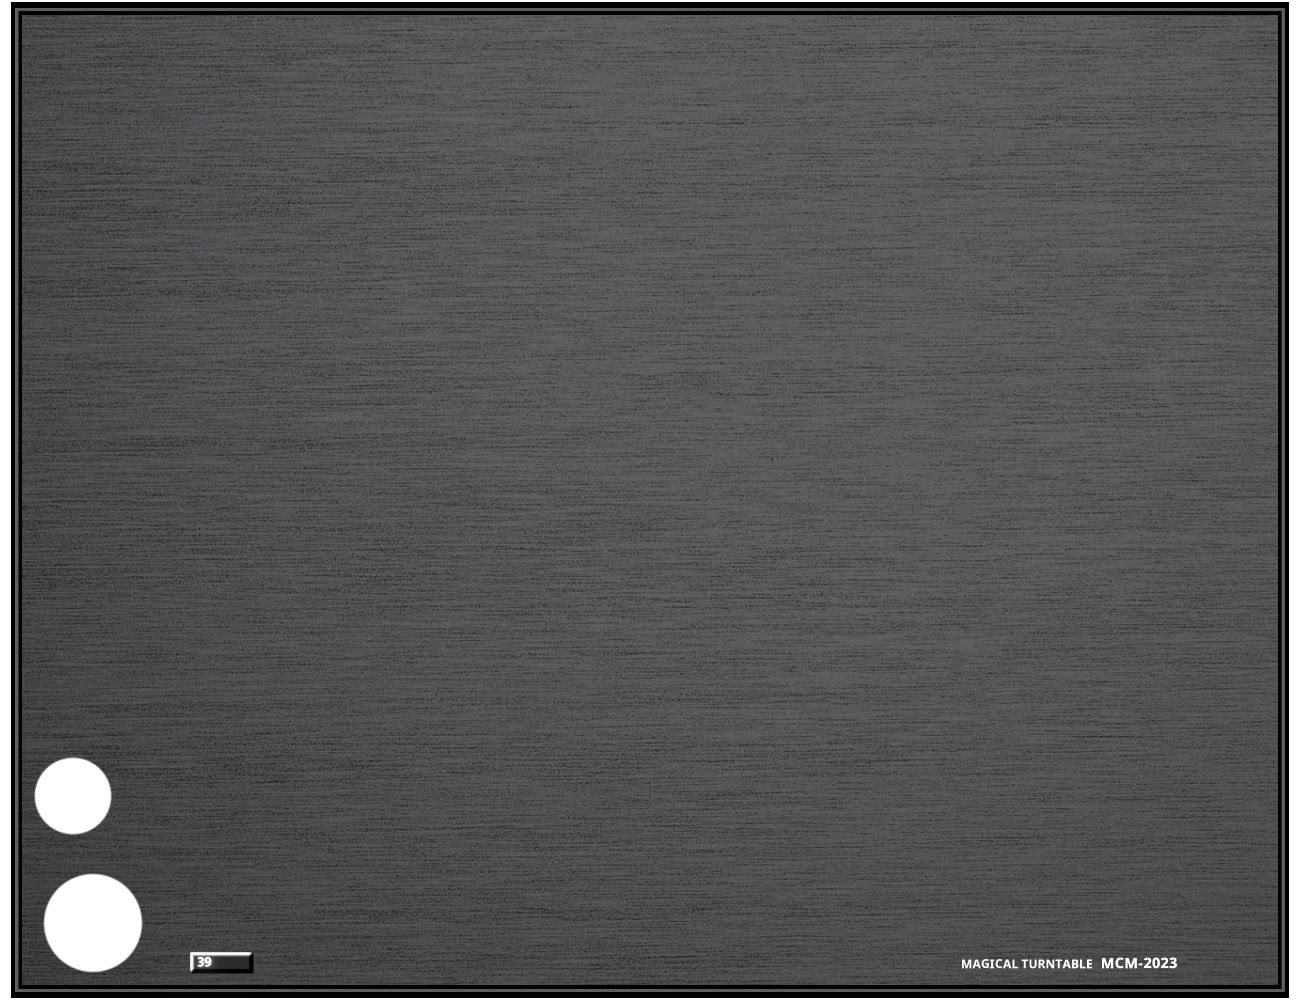
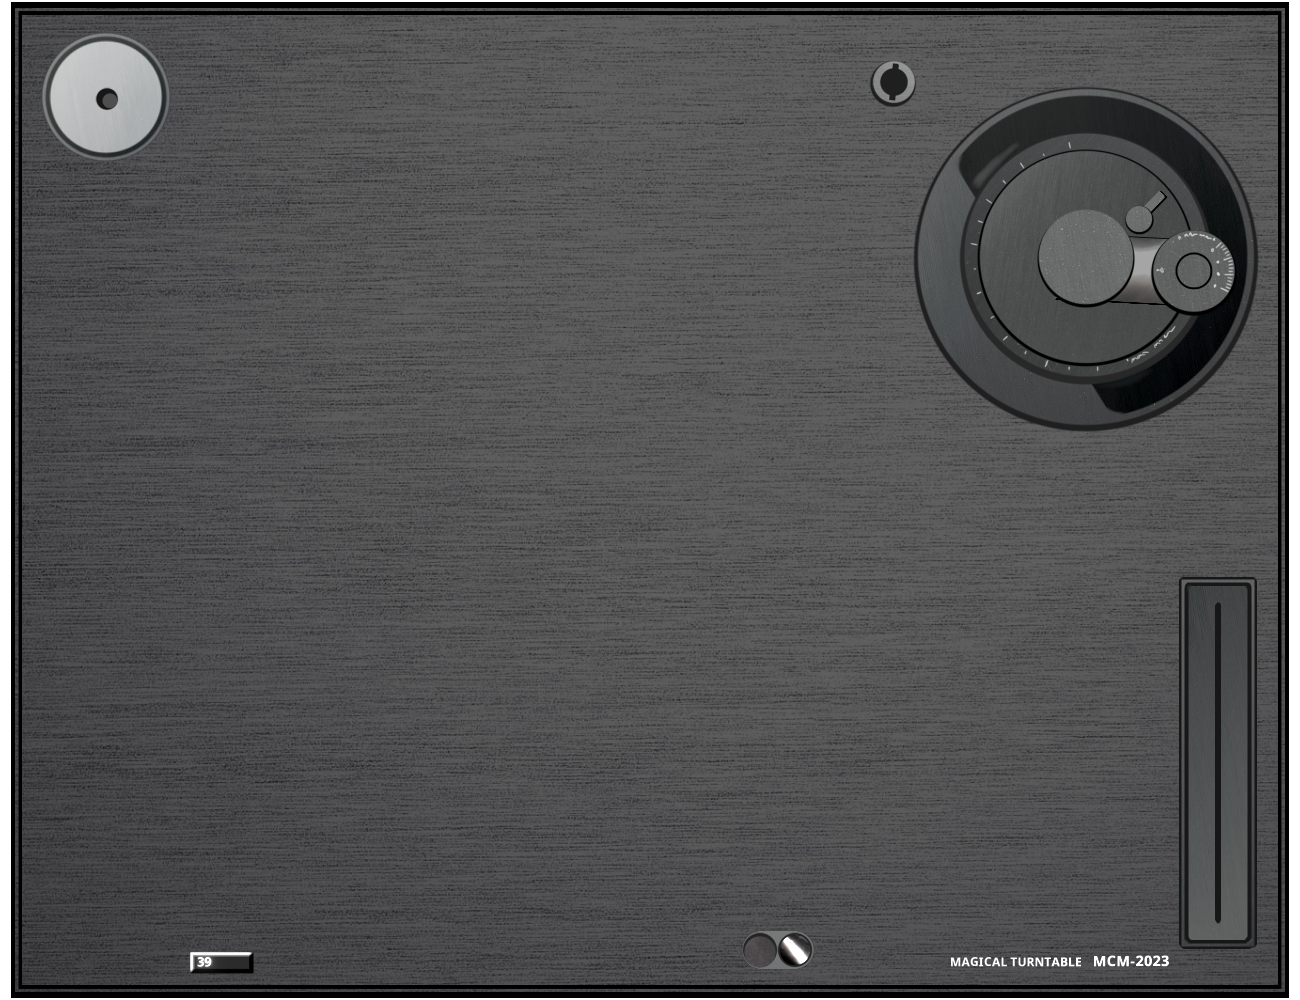
ビートのエフェクトを反転 / REPLAYボタンを追加

diff --git a/src/index.js b/src/index.js
@@ -83,10 +83,16 @@ const needle_radius_default = 400;
 const startstop_button_pos_default = [42, 871];
 
 /**
+ * REPLAYボタンの位置[left, top[px]]
+ * キャンバス倍率1の時の値
+ */
+const replay_button_pos_default = [42, 778];
+
+/**
  * BACKボタンの位置[left, top[px]]
  * キャンバス倍率1の時の値
  */
-const back_button_pos_default = [30, 753];
+const back_button_pos_default = [27, 698];
 
 /**
  * START/STOPボタンのサイズ[width, height[px]]
@@ -95,10 +101,16 @@ const back_button_pos_default = [30, 753];
 const startstop_button_size_default = [105, 105];
 
 /**
+ * REPLAYボタンのサイズ[width, height[px]]
+ * キャンバス倍率1の時の値
+ */
+const replay_button_size_default = [82, 82];
+
+/**
  * BACKボタンのサイズ[width, height[px]]
  * キャンバス倍率1の時の値
  */
-const back_button_size_default = [85, 85];
+const back_button_size_default = [66, 66];
 
 /**
  * レコード針の回転角度の下限値[deg]
@@ -214,6 +226,7 @@ player.addListener({
     document.getElementById('loading').style.display = "none";
     document.getElementById('song_select').style.display = "none";
     document.getElementById('startstop').style.display = "block";
+    document.getElementById('replay').style.display = "block";
     document.getElementById('back').style.display = "block";
     document.getElementById('p5js').style.display = "flex";
   },
@@ -391,11 +404,23 @@ document.querySelector("#startstop").addEventListener("click", () => {
   }
 });
 
+// REPLAYボタン
+document.querySelector("#replay").addEventListener("click", () => {
+  if (play_mode <= 1) {
+    // 皿回し中は無効
+    player.requestPause();
+    play_mode = 0;
+    angle_canvas = 0;
+    player.requestMediaSeek(0);
+  }
+});
+
 // BACKボタン
 document.querySelector("#back").addEventListener("click", () => {
   player.requestStop();
   document.getElementById('p5js').style.display = "none";
   document.getElementById('startstop').style.display = "none";
+  document.getElementById('replay').style.display = "none";
   document.getElementById('back').style.display = "none";
   document.getElementById('song_select').style.display = "block";
 });
@@ -509,6 +534,11 @@ new P5((p5) => {
     img_disc = p5.loadImage("../img/disc.png"); // ディスク
     img_needle = p5.loadImage("../img/needle.png"); // 針
     img_frame = p5.loadImage("../img/frame.png"); // フレーム
+    img_startstop_play = p5.loadImage("../img/button_startstop_play.png"); // START/STOPボタン(再生中)
+    img_startstop_stop = p5.loadImage("../img/button_startstop_stop.png"); // START/STOPボタン(停止中)
+    img_replay_play = p5.loadImage("../img/button_replay_play.png"); // REPLAYボタン(再生中)
+    img_replay_stop = p5.loadImage("../img/button_replay_stop.png"); // REPLAYボタン(停止中)
+    img_back = p5.loadImage("../img/button_back.png"); // BACKボタン
   };
 
   // キャンバスを作成
@@ -530,6 +560,7 @@ new P5((p5) => {
     document.getElementById('loading').style.display = "none";
     document.getElementById('p5js').style.display = "none";
     document.getElementById('startstop').style.display = "none";
+    document.getElementById('replay').style.display = "none";
     document.getElementById('back').style.display = "none";
   };
 
@@ -548,6 +579,16 @@ new P5((p5) => {
     // 筐体
     p5.imageMode(p5.CORNER);
     p5.image(img_frame, 0, 0);
+    p5.image(img_back, 0, 0);
+    // 再生中 or 停止中でライトの色を切り替える
+    if ((play_mode == 1) ||
+        (play_mode == 3)) {
+      p5.image(img_startstop_play, 0, 0);
+      p5.image(img_replay_play, 0, 0);
+    } else {
+      p5.image(img_startstop_stop, 0, 0);
+      p5.image(img_replay_stop, 0, 0);
+    }
 
     switch (play_mode) {
     case 0:
@@ -609,11 +650,17 @@ new P5((p5) => {
         beat_effect.ellipseMode(beat_effect.RADIUS);
         beat_effect.imageMode(beat_effect.CENTER);
         beat_effect.translate(record_pos_default[0], record_pos_default[1]);
-        beat_effect.fill(150, 150, 150, Ease.quintOut(progress) * 60);
+        beat_effect.fill(150, 150, 150, Ease.quintIn(progress) * 60);
         beat_effect.ellipse(0, 0, disc_beat_radius_end_default, disc_beat_radius_end_default);
-        // 内周をくり抜く
+        // 光の輪が広がる演出
         beat_effect.erase();
         beat_effect.ellipse(0, 0, radius, radius);
+        beat_effect.noErase();
+        beat_effect.fill(150, 150, 150, 60);
+        beat_effect.ellipse(0, 0, radius, radius);
+        // 内周をくり抜く
+        beat_effect.erase();
+        beat_effect.ellipse(0, 0, disc_beat_radius_begin_default, disc_beat_radius_begin_default);
         beat_effect.noErase();
         p5.image(beat_effect, 0, 0);
         beat_effect.remove(); // remove()でメモリを解放する(やらないとブラウザが落ちる！！！)
@@ -718,6 +765,12 @@ new P5((p5) => {
     startstop_button.style.height = (startstop_button_size_default[1] * genaral_magnification) + 'px';
     startstop_button.style.left = (startstop_button_pos_default[0] * genaral_magnification) + 'px';
     startstop_button.style.top = (startstop_button_pos_default[1] * genaral_magnification) + 'px';
+
+    replay_button = document.getElementById("replay");
+    replay_button.style.width = (replay_button_size_default[0] * genaral_magnification) + 'px';
+    replay_button.style.height = (replay_button_size_default[1] * genaral_magnification) + 'px';
+    replay_button.style.left = (replay_button_pos_default[0] * genaral_magnification) + 'px';
+    replay_button.style.top = (replay_button_pos_default[1] * genaral_magnification) + 'px';
 
     back_button = document.getElementById("back");
     back_button.style.width = (back_button_size_default[0] * genaral_magnification) + 'px';

diff --git a/src/index.css b/src/index.css
@@ -36,7 +36,18 @@
   border-radius: 50%;
   display: none;
   background: transparent;
-  /* border: none; */
+  border: none;
+  z-index: 201;
+}
+
+#replay {
+  position: absolute;
+  width: 85px;
+  height: 85px;
+  border-radius: 50%;
+  display: none;
+  background: transparent;
+  border: none;
   z-index: 201;
 }
 
@@ -47,7 +58,7 @@
   border-radius: 50%;
   display: none;
   background: transparent;
-  /* border: none; */
+  border: none;
   z-index: 201;
 }
 

diff --git a/src/index.html b/src/index.html
@@ -22,6 +22,7 @@
     <div id="player">
       <div id="wrapper">
         <button id="startstop"></button>
+        <button id="replay"></button>
         <button id="back"></button>
       </div>
       <div id="dummy"></div>
